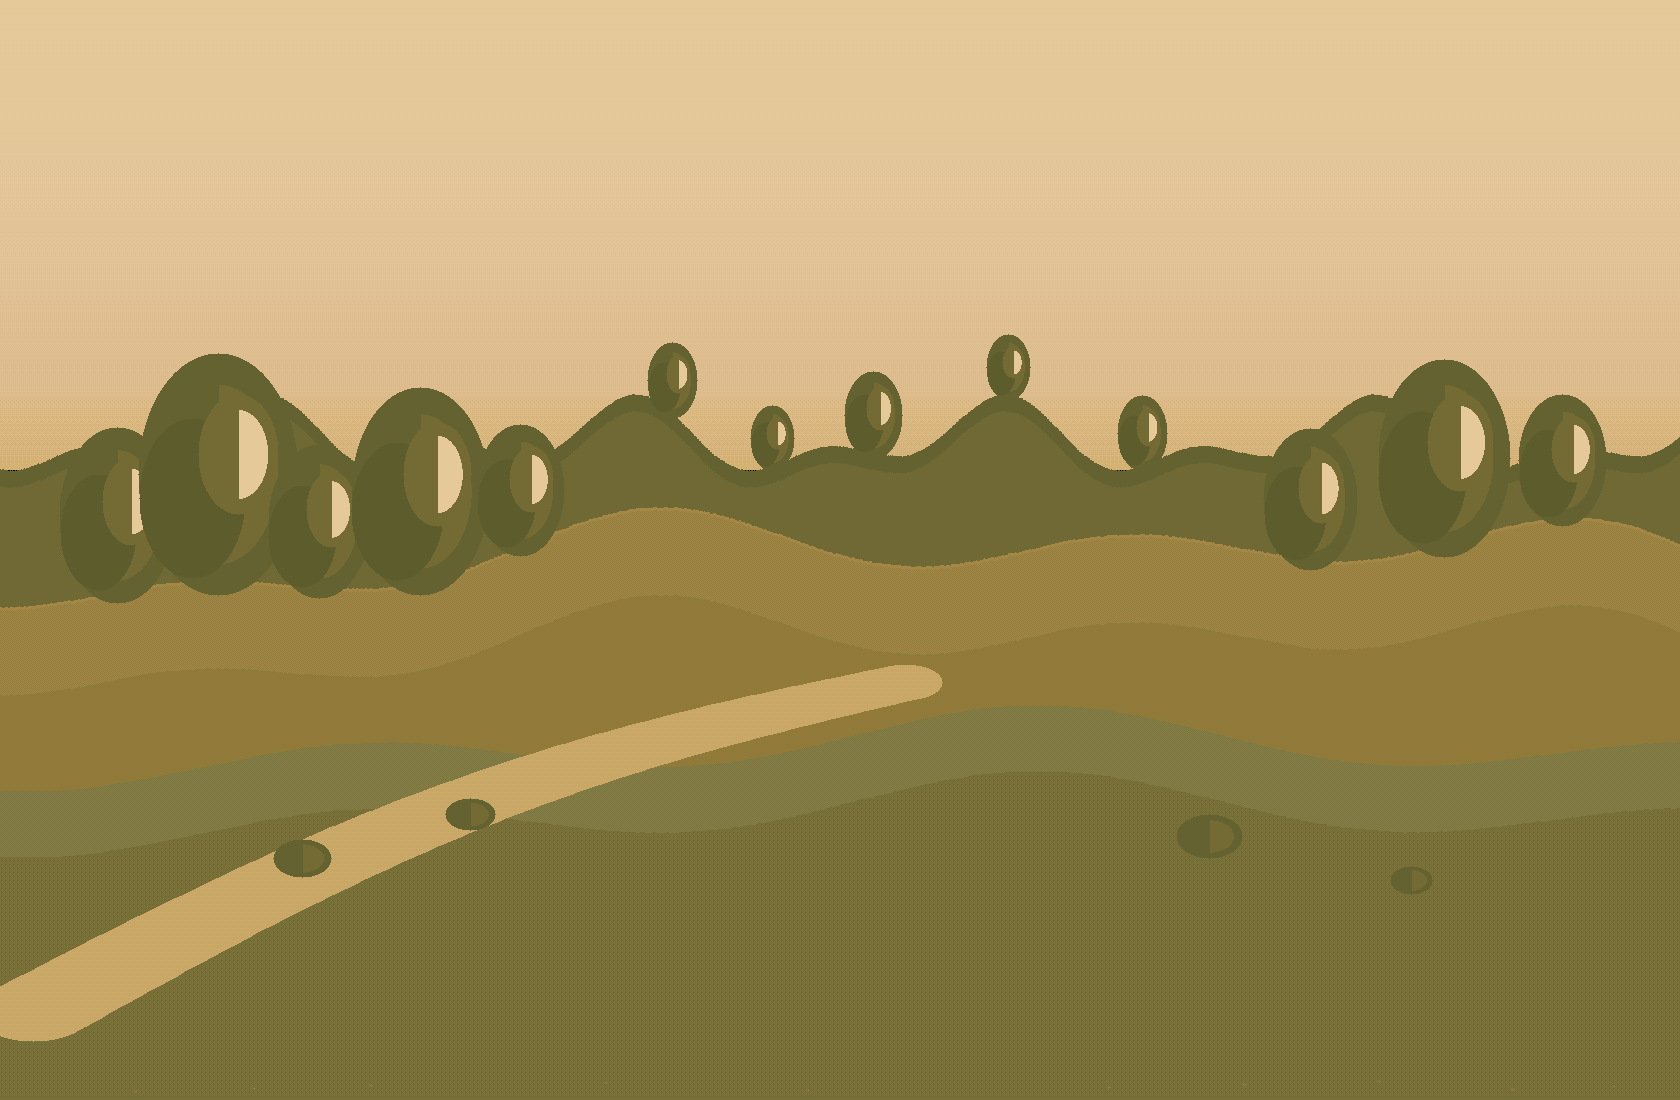
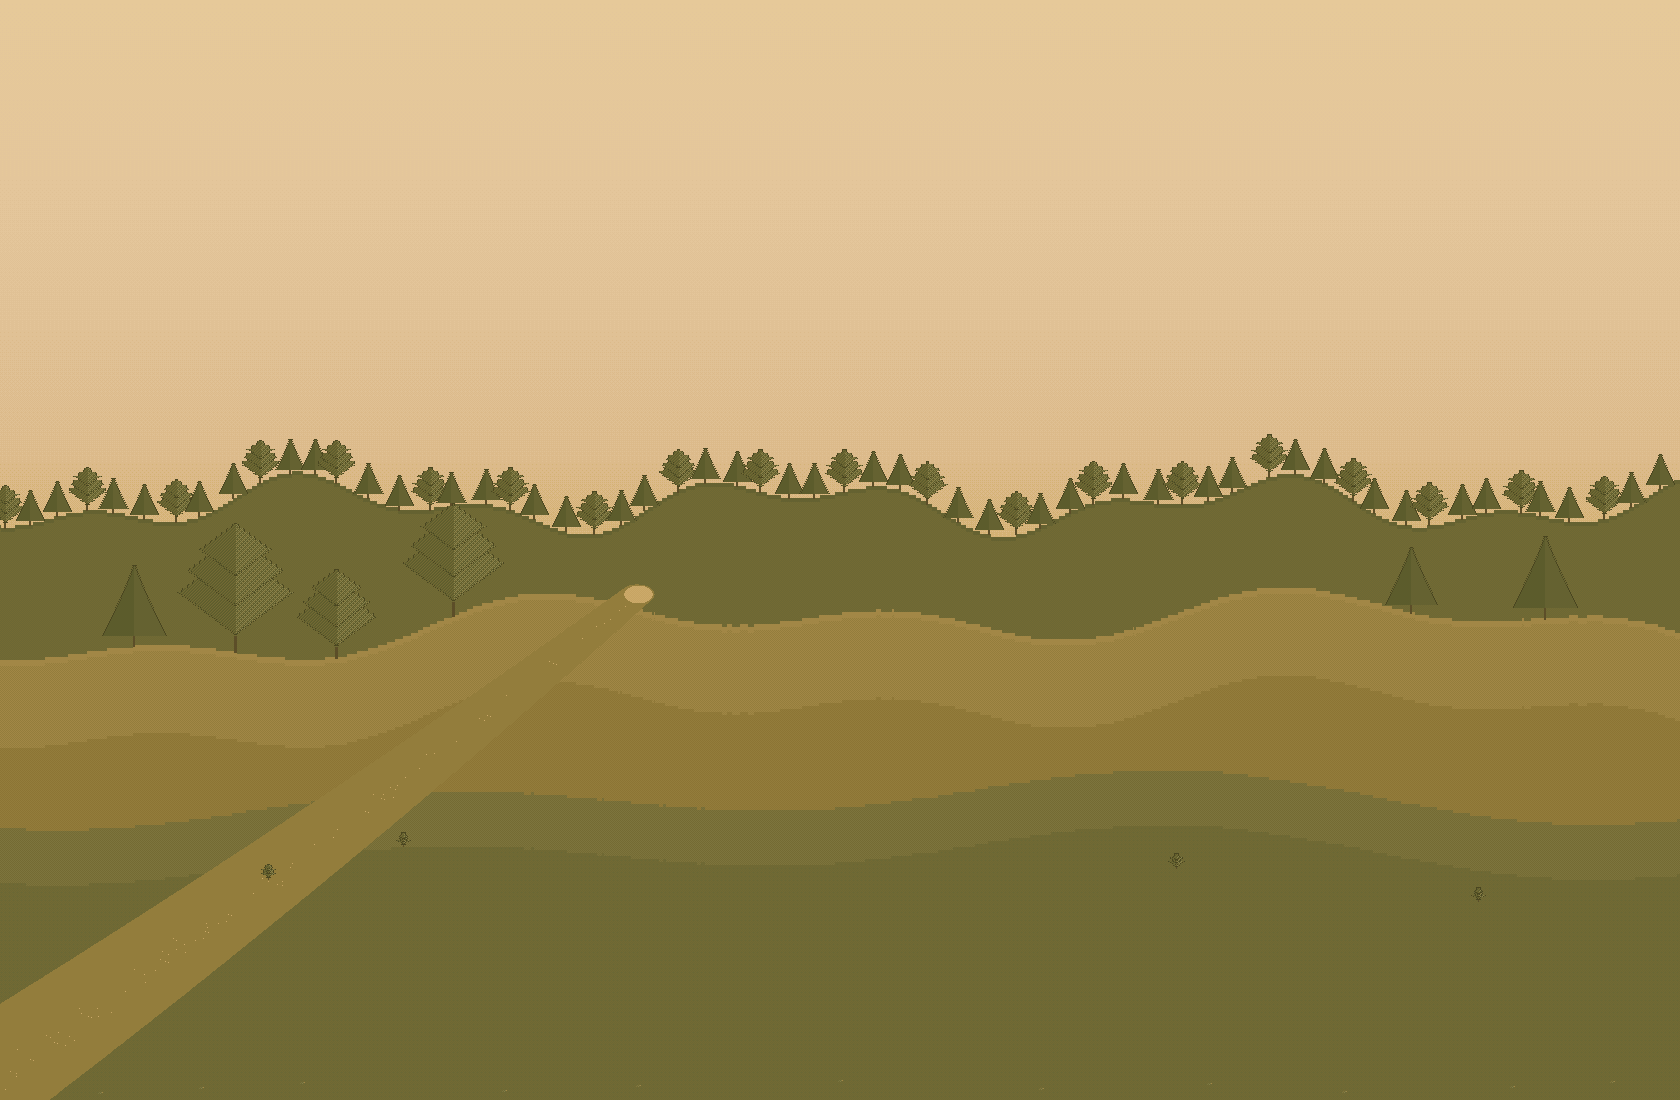
Redraw the 1990s hill as pixel trees and a vanishing path.
Replace the ellipse blobs with jagged SNES pines/oaks. Dirt trail
starts at boot width and tapers into the hills instead of dead-ending.

Changed region(s): [[0.0, 0.3091, 1.0, 0.6182], [0.0, 0.5873, 0.5571, 1.0], [0.5881, 0.6182, 0.65, 0.68]]

diff --git a/components/hero-backdrop.tsx b/components/hero-backdrop.tsx
@@ -40,7 +40,7 @@ export function HeroBackdrop() {
         />
         <img
           className="hero-backdrop-1990s-plate hero-backdrop-1990s-phone"
-          src="/hero/hero-1990s-hill.png?v=pxm1"
+          src="/hero/hero-1990s-hill.png?v=pxm2"
           width={760}
           height={1650}
           alt=""
@@ -48,7 +48,7 @@ export function HeroBackdrop() {
         />
         <img
           className="hero-backdrop-1990s-plate hero-backdrop-1990s-md"
-          src="/hero/hero-1990s-hill-md.png?v=pxm1"
+          src="/hero/hero-1990s-hill-md.png?v=pxm2"
           width={1400}
           height={1800}
           alt=""
@@ -56,7 +56,7 @@ export function HeroBackdrop() {
         />
         <img
           className="hero-backdrop-1990s-plate hero-backdrop-1990s-wide"
-          src="/hero/hero-1990s-hill-wide.png?v=pxm1"
+          src="/hero/hero-1990s-hill-wide.png?v=pxm2"
           width={1680}
           height={1100}
           alt=""
